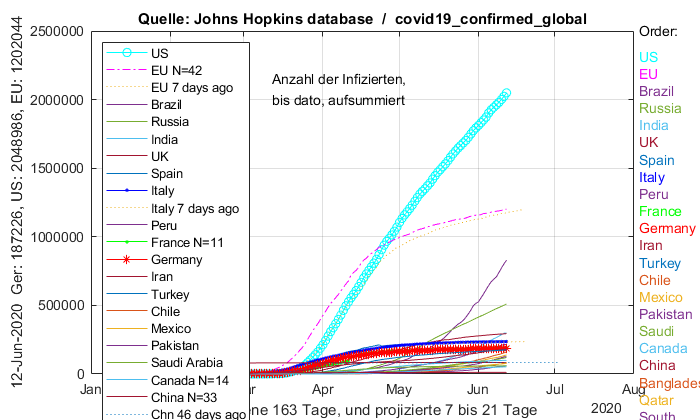
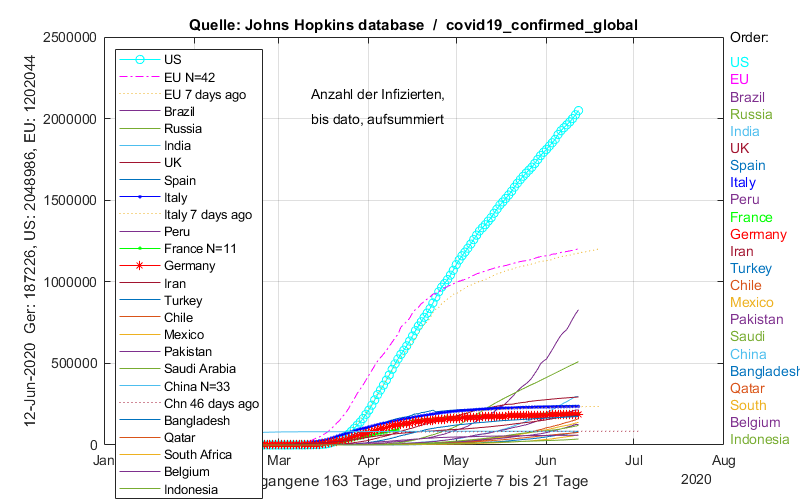
Add Images from 12-Jun-2020

diff --git a/covid19/corona_status.m b/covid19/corona_status.m
@@ -55,13 +55,14 @@ to_be_deleted=[];
 lineh=[];
 %%
 EUList = {'Austria','Belgium','Bulgaria','Croatia','Cyprus','Czechia','Denmark','Estonia','Finland','France','Germany','Greece','Hungary','Ireland','Italy','Latvia','Lithuania','Luxembourg','Malta','Netherlands','Poland','Portugal','Romania','Slovakia','Slovenia','Spain','Sweden',};
-CList1 = {'EU' 'Italy','Germany','France','China','US','Korea, South'};
-CList2 = cntry(find(max(cases')>50000))';   % mind 50k infizierte
+CList1 = {'EU' 'Italy','Germany','France','China','US','Indonesia'};
+CList2 = cntry(find(max(cases')>55000))';   % mind 55k infizierte
 if url_idx==2
    CList2 = cntry(find(max(cases')>3300))'; % mind 3300 tote
 end
 CList = unique({CList1{:} CList2{:}});
 figure(1), hold off
+pos = get(gcf,'position'); pos(2)=pos(2)-(500-pos(4)); pos(3:4)=[800 500]; set(gcf,'position',pos)
 cnt = 0;
 min_dt = inf;
 for pp = 1:numel(CList)
@@ -154,7 +155,8 @@ for ci=1:cnt
    DatY_end(ci) = DatY{ci}(end);
 end
 legend(Legend,'Location','northwest');
-set(gcf,'position',[230,200,700,420])
+% done above: pos = [230,200,800,500]; set(gcf,'position',pos)
+
 %% Add extra Legend at right to reflect right most order with colors
 xx=max(get(gca,'XLim')) + diff(get(gca,'XLim'))/100;
 yy=max(get(gca,'YLim'));
@@ -162,9 +164,9 @@ yy=max(get(gca,'YLim'));
 for ci=[-1 ci_sort]
    if ci==-1
       set(text(xx,yy,'Order:'),'Units','pixels'); % do not change on Zoom
-      yy = yy - diff(get(gca,'YLim'))/40;
+      yy = yy - diff(get(gca,'YLim'))*10/pos(4);
    elseif ~contains(Legend{ci},' ago')
-      yy = yy - diff(get(gca,'YLim'))/20;
+      yy = yy - diff(get(gca,'YLim'))*21/pos(4);
       legNoSp = Legend{ci}; legNoSp(find(legNoSp==' '):end)='';
       legh(ci)=text(xx,yy,legNoSp,'Color',get(lineh(ci),'Color'));
       set(legh(ci),'Units','pixels'); % do not change on Zoom
